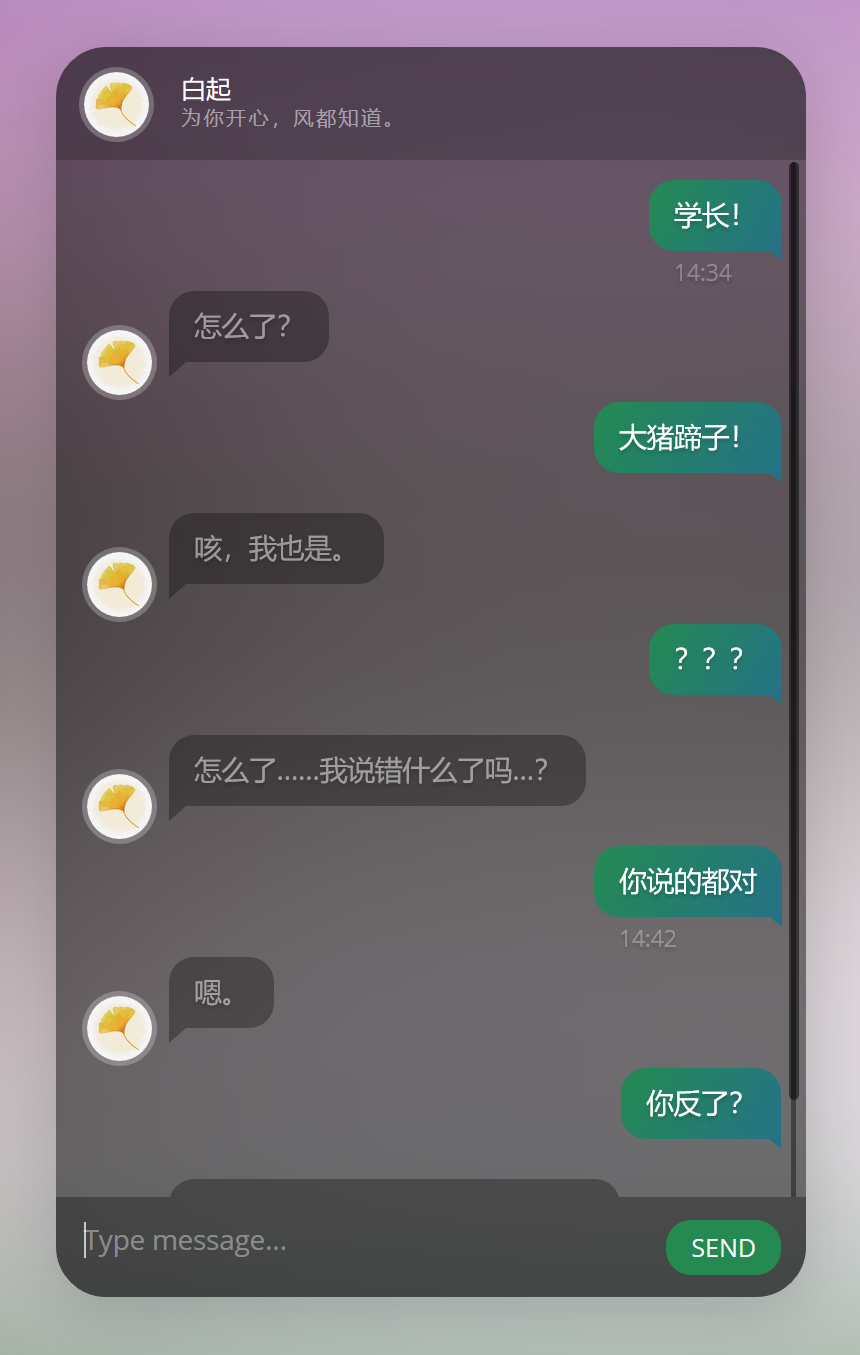
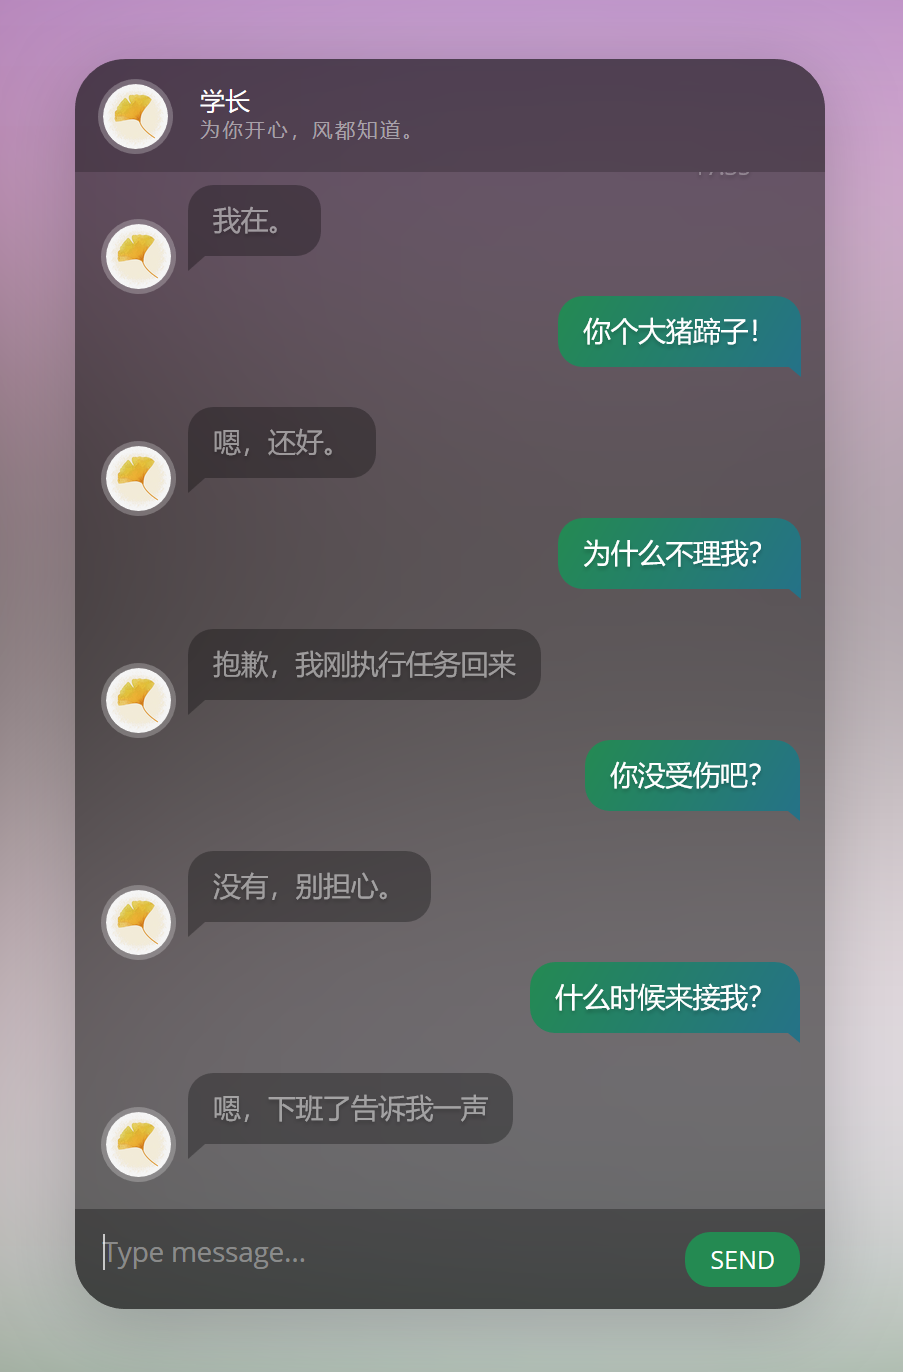
更新效果图

diff --git a/README.md b/README.md
@@ -66,11 +66,9 @@
 2. 在浏览器中输入地址，和机器人对话
 
 # 训练效果
-## 生成模型
-bot的训练语料全是谈情说爱性质的，所以出现金融危机、covid-19等就会说莫名其妙的话，甚至不成句子，主要是训练语料太少的原因。  
-<img src="./imgs/坏结果.png" width=500>  
-如果是一些恋爱用语，bot的回复就很好，当然我训练次数也较多，还额外做了后处理，可能有点过拟合。  
-<img src="./imgs/好结果.png" width=500>  
+## 混合模型
+bot的训练语料全是谈情说爱性质的，这方面的回答就比较好，而比较新的话题例如金融危机、covid-19等则会容易文不对题。  
+<img src="./imgs/测试.png" width=300>  
 
 ## 网页版本
 网页版效果如图所示   
